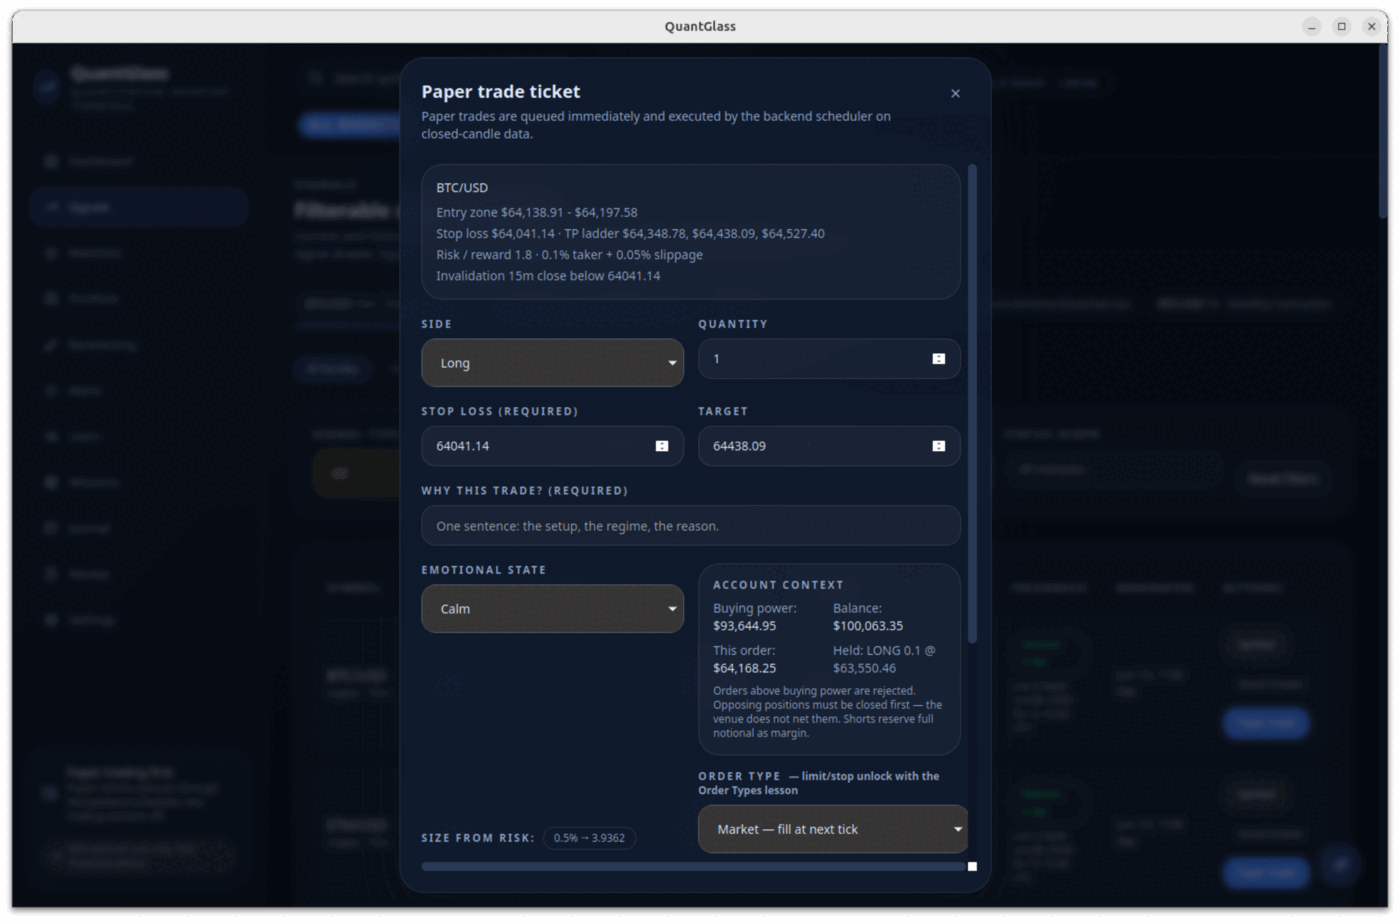
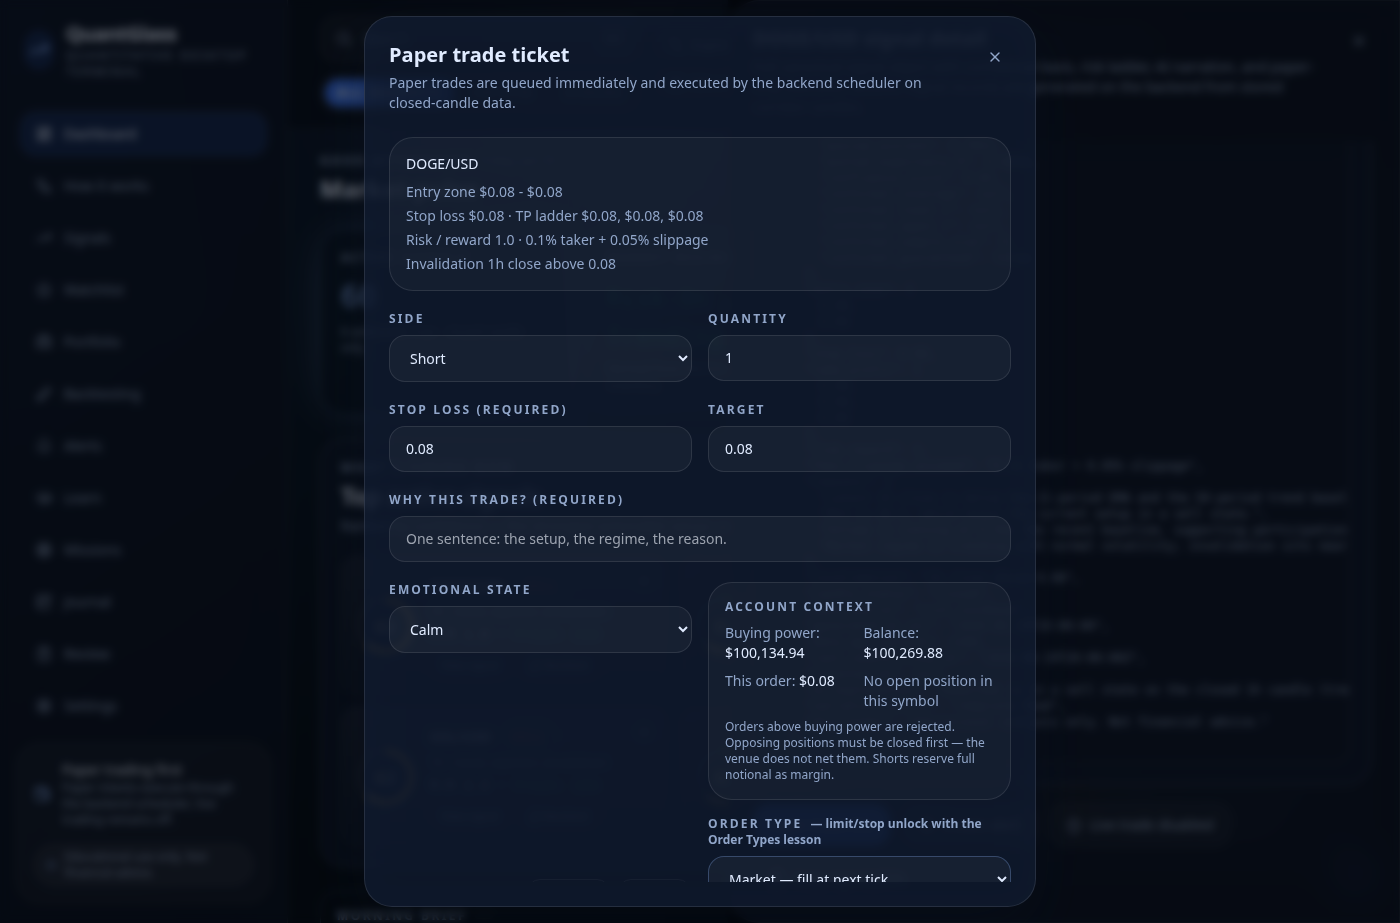
feat: capture the paper-trade ticket (completes the README tour)
Open the ticket via dashboard signal -> View signal drawer -> Paper trade
this, and capture the order-plan modal (stop/target/reason/emotional state).
All 15 README screenshots are now generated deterministically by the pipeline.

diff --git a/scripts/screenshots/README.md b/scripts/screenshots/README.md
@@ -44,7 +44,7 @@ re-capture.
 
 ## Captured states
 
-All README screens are captured, including interactive ones: the Copilot panel,
-the four Settings tabs (`?tab=…`), the trading constitution, and the symbol
-detail. The only remaining one is the **paper-trade ticket** — add a `SCREENS`
-entry once its open trigger has a stable selector.
+Every README screen is captured, including the interactive ones: the Copilot
+panel, the four Settings tabs (`?tab=…`), the trading constitution, the symbol
+detail, and the paper-trade ticket (dashboard signal -> drawer -> ticket). Add
+a new `SCREENS` entry to capture any future screen or state.